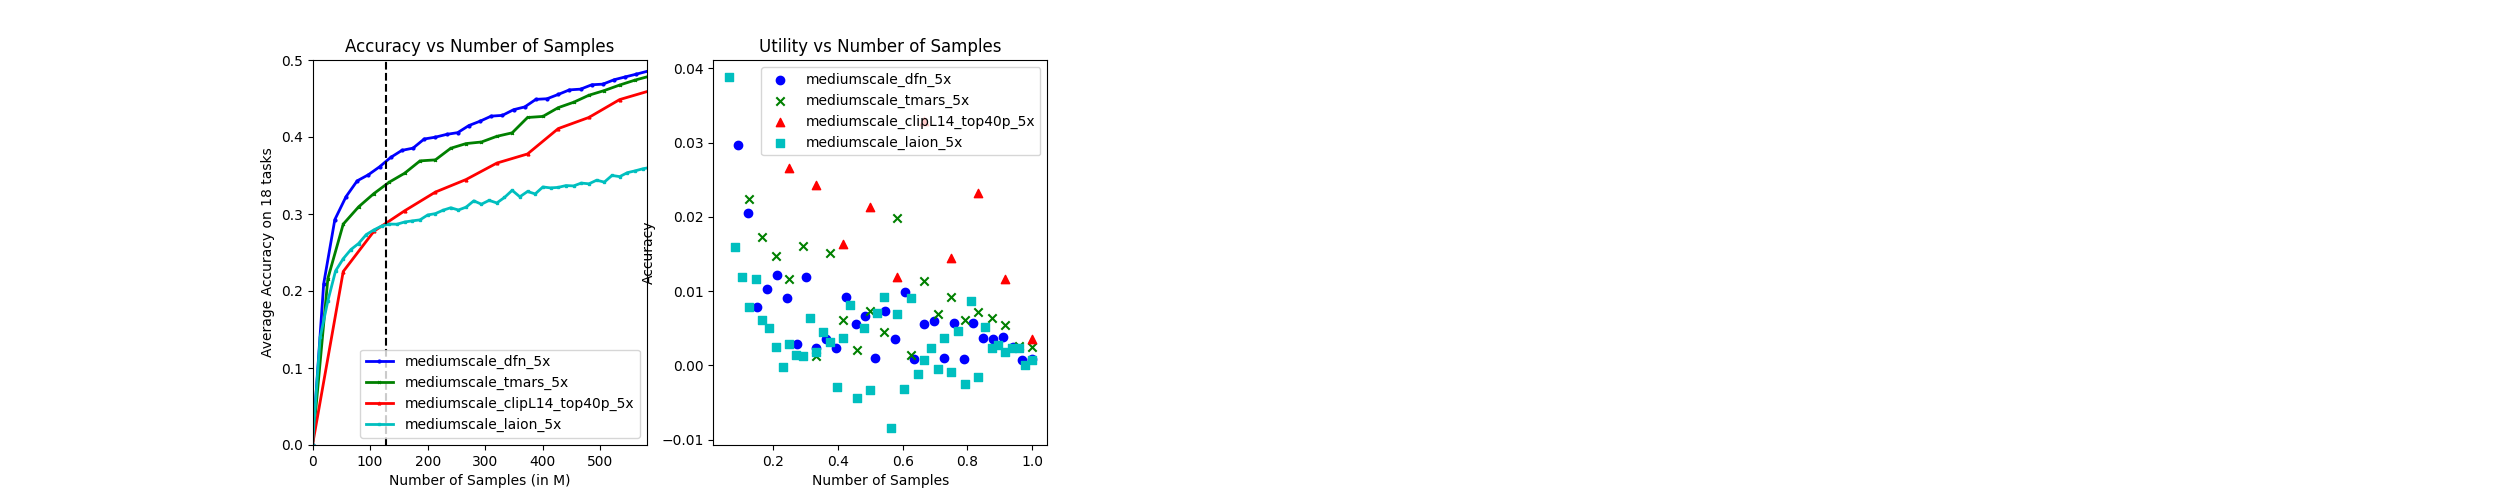
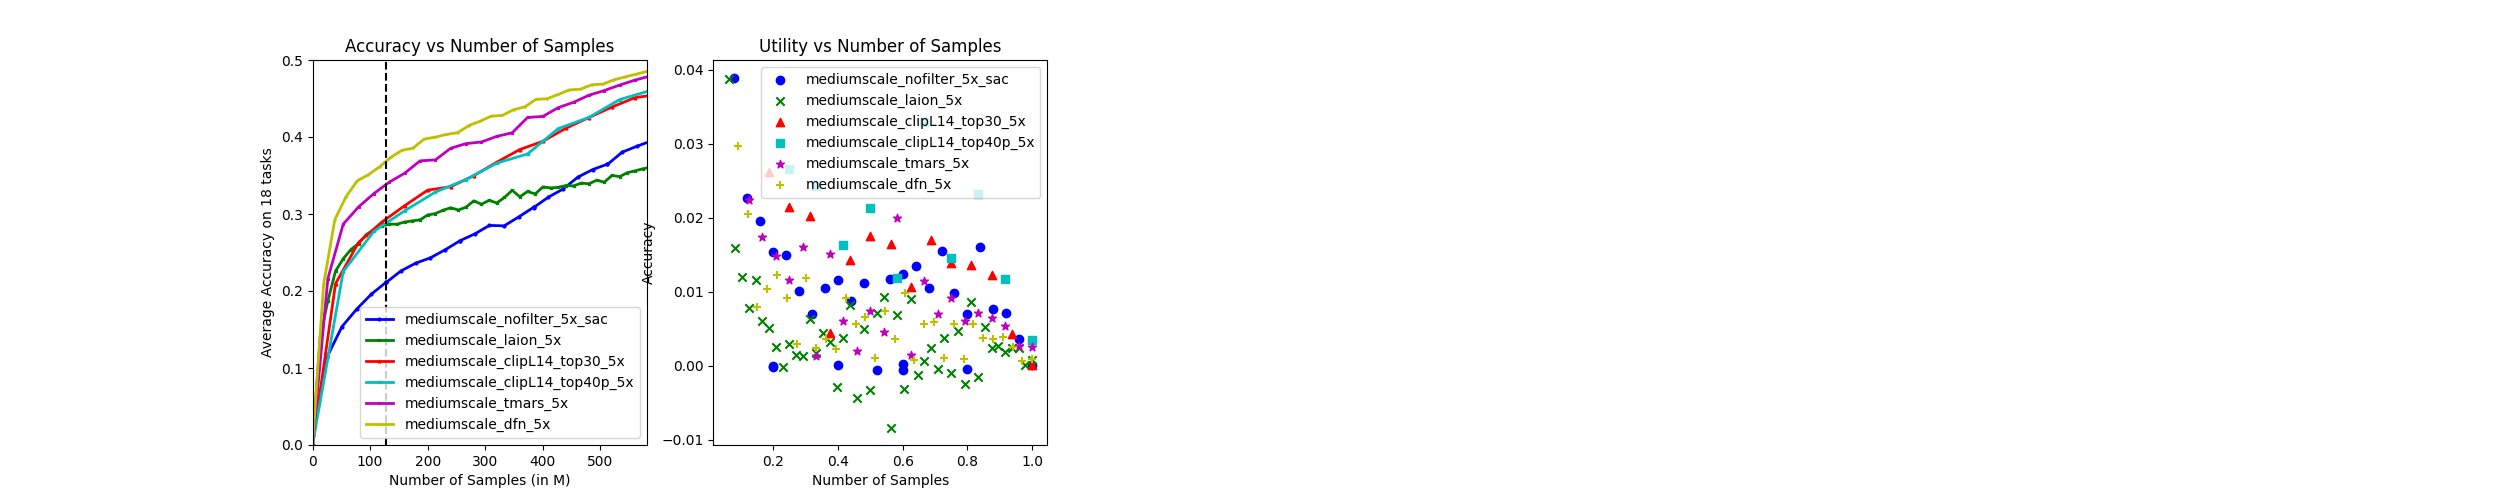
intermediate resume

diff --git a/plots/process_zs_results.py b/plots/process_zs_results.py
@@ -39,12 +39,12 @@ folder_path_list = [
                     # Path("/project_data2/projects/sachingo/utility_project/clip_bucket_training/clipbucket_top10p"),
                     # Path("/project_data2/projects/sachingo/utility_project/clip_bucket_training/clipbucket_10p_to_20p"),
                     # Path("/project_data2/projects/sachingo/utility_project/clip_bucket_training/clipbucket_top30p_10prandom"),
-                    # Path("/home/sachingo/datacomp/logs/logs/mediumscale_nofilter_5x/"),
-                    # Path("/project_data2/projects/sachingo/utility_project/mediumscale_clipL14_5x"),
-                    Path("/project_data2/projects/sachingo/utility_project/mediumscale_dfn_5x"),
-                    Path("/home/sachingo/datacomp/logs/logs/mediumscale_tmars_5x/"),
-                    Path("/project_data2/projects/sachingo/utility_project/mediumscale_clipL14_top40p_5x/"),
+                    Path("/home/sachingo/datacomp/logs/logs/mediumscale_nofilter_5x_sac/"),
                     Path("/project_data2/projects/sachingo/utility_project/mediumscale_laion_5x/"),
+                    Path("/project_data2/projects/sachingo/utility_project/mediumscale_clipL14_top30_5x/"),
+                    Path("/project_data2/projects/sachingo/utility_project/mediumscale_clipL14_top40p_5x/"),
+                    Path("/home/sachingo/datacomp/logs/logs/mediumscale_tmars_5x/"),
+                    Path("/project_data2/projects/sachingo/utility_project/mediumscale_dfn_5x"),
                     # Path("/project_data2/projects/sachingo/utility_project/clip_bucket_training/clipbucket_30p_to_40p/"),
                     # Path("/project_data2/projects/sachingo/utility_project/clip_bucket_training/clipbucket_40p_to_50p/"),
                     # Path("/project_data2/projects/sachingo/utility_project/clip_bucket_training/clipbucket_50p_to_60p/"),
@@ -76,7 +76,7 @@ for k in range(len(folder_path_list)):
     result_dict = {}
     for jsonl_file in folder_path.glob("*.jsonl"):
         # Extract step number from file name
-        if k==-1:
+        if k<1:
             match = re.search(r'step_(\d+)\.jsonl', str(jsonl_file))
             if match:
                 step_number = int(match.group(1))            
@@ -124,14 +124,13 @@ for k in range(len(folder_path_list)):
                     assert total_entries == 18, f"total entries is not 18, {jsonl_file}"
                     avg_score = avg_score/total_entries
                     result_dict[epoch_number] = avg_score
-
                         # if data.get("key") == "imagenet1k":
                         #     main_metric = data["metrics"]["main_metric"]
                         #     result_dict[epoch_number] = main_metric
                         #     break
 
     # if k==3:
-    #     import pdb;pdb.set_trace()
+    
     result_dict = {k: v for k, v in sorted(result_dict.items())}
     pruned_result_dict = result_dict
     # pruned_keys = []

diff --git a/training/scheduler.py b/training/scheduler.py
@@ -40,14 +40,29 @@ def const_lr_cooldown(optimizer, base_lr, warmup_length, steps, cooldown_steps, 
     return _lr_adjuster
 
 
-def cosine_lr(optimizer, base_lr, warmup_length, steps):
+def cosine_lr(optimizer, base_lr, warmup_length, steps, resume_gold_ckpt_step = 0):
     def _lr_adjuster(step):
         if step < warmup_length:
             lr = _warmup_lr(base_lr, warmup_length, step)
         else:
-            e = step - warmup_length
-            es = steps - warmup_length
-            lr = 0.5 * (1 + np.cos(np.pi * e / es)) * base_lr
+
+            if resume_gold_ckpt_step == 0:
+                e = step - warmup_length
+                es = steps - warmup_length
+                lr = 0.5 * (1 + np.cos(np.pi * e / es)) * base_lr
+
+            else:
+                e_eff = resume_gold_ckpt_step + warmup_length - warmup_length
+                es_eff = steps - warmup_length
+                gold_base_lr =  0.5 * (1 + np.cos(np.pi * e_eff / es_eff)) * base_lr
+                if step - resume_gold_ckpt_step < warmup_length:
+                    lr  = _warmup_lr(gold_base_lr, warmup_length, step - resume_gold_ckpt_step)
+                else:
+                    e = step - warmup_length
+                    es = steps - warmup_length 
+                    lr = 0.5 * (1 + np.cos(np.pi * e / es)) * base_lr
+
         assign_learning_rate(optimizer, lr)
         return lr
     return _lr_adjuster
+

diff --git a/training/main.py b/training/main.py
@@ -364,8 +364,13 @@ def main(args):
     scheduler = None
     if 'train' in data and optimizer is not None:
         total_steps = (data["train"].dataloader.num_batches // args.accum_freq) * args.epochs
+        if args.start_step:
+            start_step = start_epoch * (data["train"].dataloader.num_batches // args.accum_freq)
+            logging.info(f'Setting start step to {start_step}')
+        else:
+            start_step = 0
         if args.lr_scheduler == "cosine":
-            scheduler = cosine_lr(optimizer, args.lr, args.warmup, total_steps)
+            scheduler = cosine_lr(optimizer, args.lr, args.warmup, total_steps, resume_gold_ckpt_step=start_step)
         elif args.lr_scheduler == "const":
             scheduler = const_lr(optimizer, args.lr, args.warmup, total_steps)
         elif args.lr_scheduler == "const-cooldown":

diff --git a/train.py b/train.py
@@ -183,6 +183,12 @@ if __name__ == "__main__":
         default=0,
         help="Only to be used in the case of curriculum learning",
     )
+    parser.add_argument(
+        "--start_step",
+        type=int,
+        default=0,
+        help="If you want to specify start step",
+    )
     parser.add_argument("--seed", type=int, default=0, help="Random seed.")
     parser.add_argument(
         "--report_to_wandb",
@@ -311,6 +317,8 @@ if __name__ == "__main__":
         f"{args.filter}",
         "--valid-file",
         f"{args.valid_file}",
+        "--start-step",
+        f"{args.start_step}",
     ]
     main_args.append("--dataset-resampled")
     if args.report_to_wandb:

diff --git a/training/params.py b/training/params.py
@@ -132,6 +132,9 @@ def parse_args(args):
         "--curriculum", type=int, default=0, help="Use only for the case of curriculum learning"
     )
     parser.add_argument(
+        "--start-step", type=int, default=0, help="If you want to specify the starting step"
+    )
+    parser.add_argument(
         "--epochs-cooldown", type=int, default=None,
         help="When scheduler w/ cooldown used, perform cooldown from total_epochs - cooldown_epochs onwards."
     )
